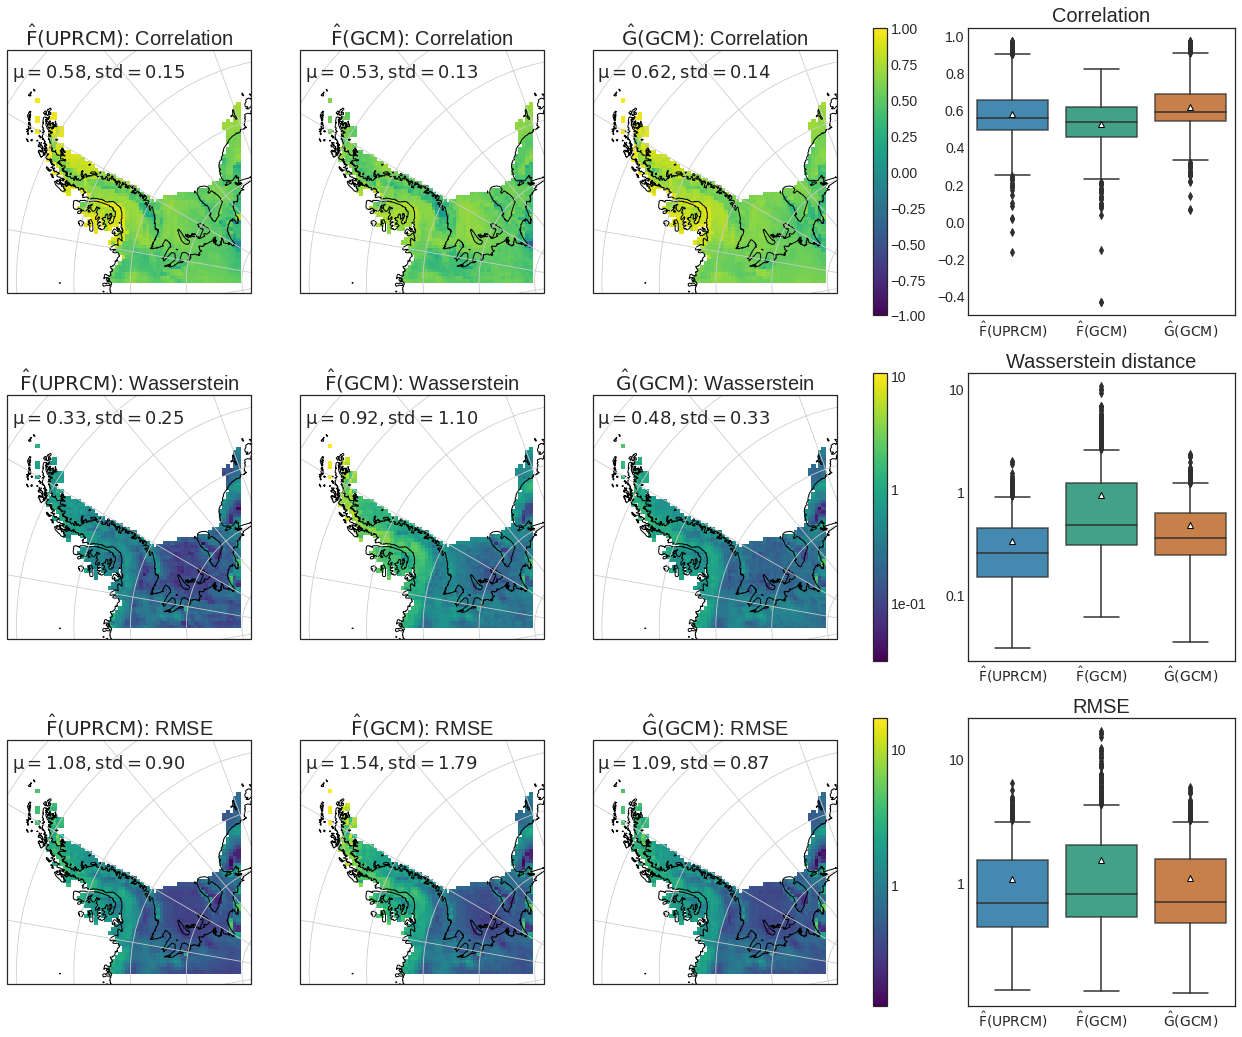
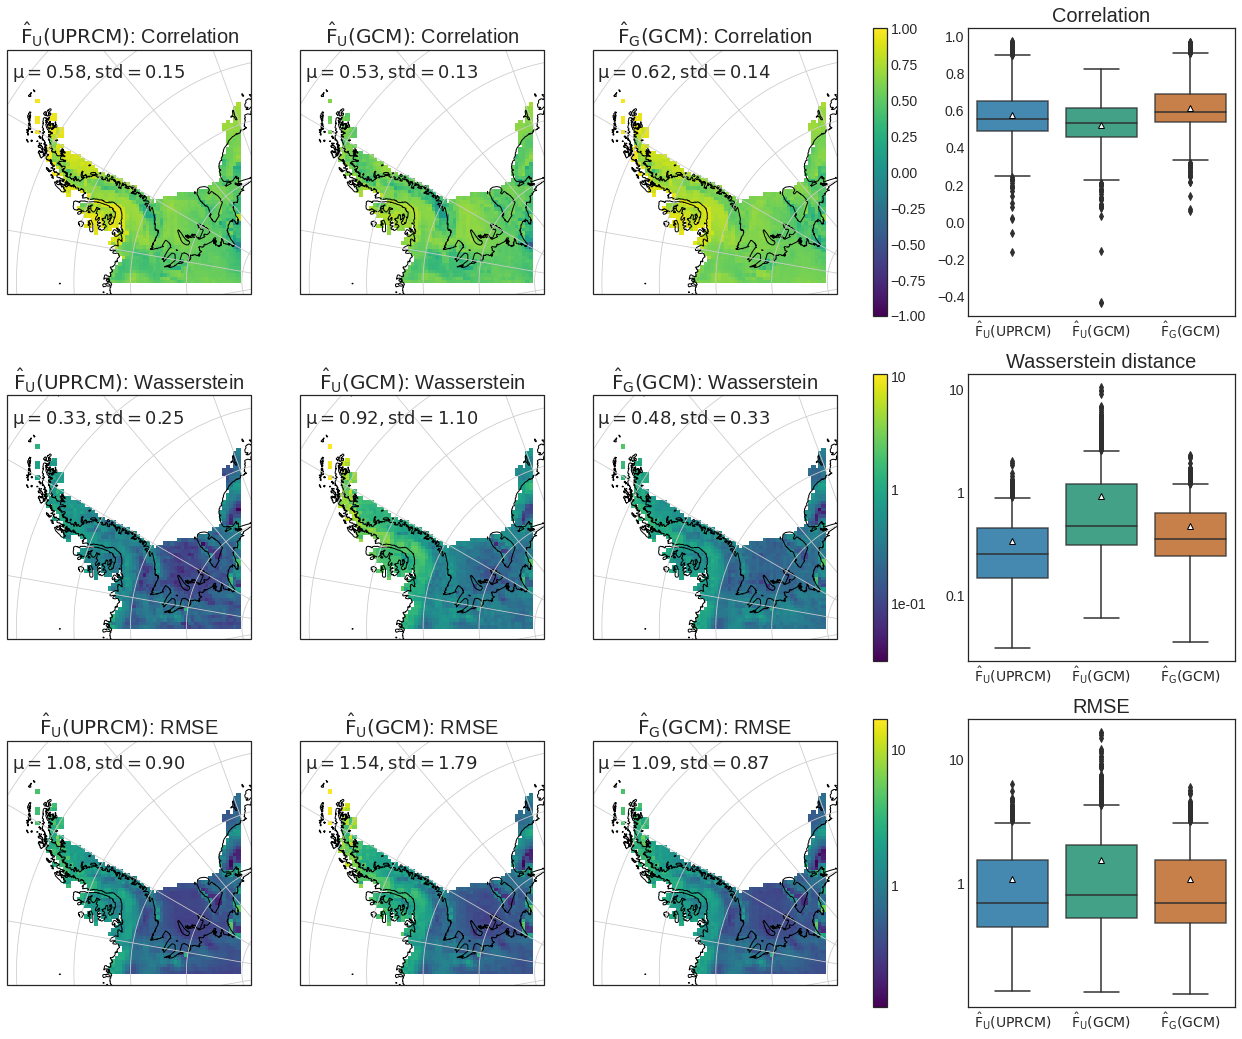
Updates from Overleaf

diff --git a/doc/Thesis-latex/thesis.tex b/doc/Thesis-latex/thesis.tex
@@ -336,15 +336,16 @@ where $\bar{Z}_{\mathrm{ref},z}$ and $\sigma(Z_{\mathrm{ref},z})$ are respective
 \end{figure}
 
 \begin{itemize}
-    \item Train and test set: we separate the time-frame $T$ into an approximate 90\%-10\% split with a train and test period of $T_{train} = 1980-2090$ and $T_{test} = 2090-2100$. We arbitrarily chose to put the test period at the end of the climate model's time-frame out of simplicity, but we could also have taken the test samples elsewhere as long as they are consecutive.    
-    \item Evaluation of $\hat{F}_U$: Emulator $\hat{F}_U$ is first evaluated in the perfect model with UPRCM features and in a second step, on GCM inputs. 
-    \item Evaluation of $\hat{F}_G$: Because we trained this Emulator on the GCM, we evaluated $\hat{F}_G$ directly on test features from the GCM. 
-    \item We illustrate the two evaluation frameworks in Fig.~\ref{fig:evaluation-framework}.
-    
+    \item Train and test set: we separated the time-frame $T$ into an approximate 90\%-10\% split with a train and test period of $T_{train} = 1980-2090$ and $T_{test} = 2090-2100$. We arbitrarily chose to put the test period at the end of the climate model's time-frame out of simplicity, but we could also have taken the test samples elsewhere as long as they are consecutive. 
+    \item Evaluation of $\hat{F}_U$: Emulator $\hat{F}_U$ was first evaluated in the perfect model with UPRCM features $\hat{F}_U(\operatorname{UPRCM})$ and in a second step, on GCM inputs $\hat{F}_U(\operatorname{GCM})$. This is to assess how the Emulator trained on UPRCM can apply what it learned to GCM features. Furthermore, the performance of $\hat{F}_U(\operatorname{GCM})$ is also a good indicator of the presence of inconsistencies between UPRCM and GCM features. 
+    \item Evaluation of $\hat{F}_G$: Because we trained this Emulator on the GCM, we evaluated $\hat{F}_G$ directly on test features from the GCM $\hat{F}_G(\operatorname{GCM})$. 
+    \item The two evaluation frameworks are illustrated in Fig.~\ref{fig:evaluation-framework}.
+    \item For each Emulator $\hat{F}_{(\cdot)}$, we assessed single month and average predictions made over the target domain. This way, we could examine which regions of the Peninsula were best reconstructed in their SMB patterns in terms of details, precision and intensity. \item Furthermore, we looked at individual time-series of predicted SMB values for single points in the target region. These points were specifically chosen to evaluate how the models handled different patterns and intensities of SMB.   
 \end{itemize}
 
-\subsection{Evaluation metrics}\label{subsec:evaluation-metrics}
-For each Emulator $\hat{F}_{(\cdot)}$ and point $p \in \mathcal{E}$, we compared the target SMB time series $Y_{p}$ to the predicted values $\widehat{Y_{p}}$ over the time period $T_{test}$. For this, we used different statistics:
+\subsection{Evaluation metrics}\label{subsec:evaluation-metrics} 
+
+To evaluate the global performance of our Machine Learning model, we used different traditional statistics. For each Emulator $\hat{F}_{(\cdot)}$and point $p \in \mathcal{E}$, we compared the target SMB time series $Y_{p}$ to the predicted values $\widehat{Y_{p}}$ over the time period $T_{test}$. For this, we used the Pearson correlation, RMSE and the Wasserstein distance. Correlation allows to whether a temporal pattern such as seasonality for example is well reconstructed, while RMSE and the Wasserstein distance evaluate the fitting of extreme values, as a good representation of the monthly variability and temporal correlation includes a good representation of the extreme values. 
 
 \subsubsection{RMSE}\label{subsubsec:rmse}
 Root Mean Squared Error (RMSE) measures the square root of the average squared differences between predicted and target observations. It is also defined as the square of the mean squared error (MSE):
@@ -368,8 +369,26 @@ measure to match that in the target~\cite{wasserstein1}.
 \end{equation}
 where $\hat{y}_{p}^{t}$ is the predicted SMB value and $y^{t}_{p}$ the true SMB value at location $p\in \mathcal{E} $ and time step $t\in T$. 
 
-\subsection{Feature importance}
-
+ \subsection{Feature importance}
+\begin{itemize}
+    \item For each Emulator $\hat{F}_{(\cdot)}$, we were interested in exploring which atmospheric variables had the biggest impact on the performance of the models.
+    \item Neural Networks have a reputation of being a black box algorithm with a decision process that is hard to understand. Nevertheless, there are ways to evaluate the importance of features, such as permutation importance. 
+    \item Permutation importance is calculated after a model has been fitted. For each single variable in the data, its content are shuffled i.e, rendering the images unreadable and then the model's performance is evaluated with that corrupted variable.
+    \item For every variable $x\in C_1$ in the test dataset $X[1:T_{test}, 1:I,1:J,1:C_1]$, we computed the difference between the prediction score on the original data and that of corrupted features. This procedure was repeated $K$ times and the importance was calculated as the mean percentage of difference in scores. 
+    \begin{equation}
+        \operatorname{I_x} =\frac{1}{K}\sum_{k\in K} \frac{100*(\operatorname{s}_{x}^k - \operatorname{s})}{\operatorname{s}} \;\;\; \forall x\in C_1    \end{equation}
+    where $s$ is the NRMSE loss on the original prediction of $\hat{F}_{(\cdot)}$ and $s_x^k$ is the loss for repetition $k\in K$ and corrupted feature $x\in C_1$. 
+    \item What is expected: 
+    \begin{itemize}
+    \item With this technique, we expected to obtain less precise predictions for corrupted features because the resulting data no longer conforms to anything observed by the Emulators~\cite{FeatureImportance2}.
+    \item Why? This method breaks the relationship between the features and the target. Because we corrupted the natural structure of the data with our scrambling, we compromised what our model learned during training, resulting in higher errors. Hence the drop in the model score is an indication of how much the model depends on the feature.~\cite{FeatureImportance}
+    \end{itemize}
+    \item Note that: 
+    \begin{itemize}
+        \item Permutation importance is not a reflection of the actual predictive value of a feature per se but rather the significance of that feature to a specific model.~\cite{FeatureImportance2}
+        \item If two features are correlated and one of them is permuted, the model still has access to this feature via the correlated one. This leads to lower importance for both features, although they might actually be important.~\cite{FeatureImportance2}. 
+    \end{itemize}
+\end{itemize}
 
 \chapter{Results}
 %%%%%%%%%%%%%%%%%%%%
@@ -381,18 +400,31 @@ where $\hat{y}_{p}^{t}$ is the predicted SMB value and $y^{t}_{p}$ the true SMB 
         \item Global ML metrics: move on to evaluate models with metrics over whole target domain. Why? Start global and use typical ML metrics to evaluate performance of models.  
         \item Geoplots: Look at actual prediction images made by Emulators. Why? Good visual aid to assess which regions are best emulated. Can look at details and precision of reconstruction.   
         \item Zoom in on specific points with their time-series and annual SMB values. Why? Look at how the models adapt to different patterns and intensities of SMB. 
-        \item Feature importance for both Emulators. Why? From a physical point of view, interesting to see which atmospheric variables play the biggest role in predicting SMB. 
+        \item Feature importance for both Emulators. Why? From a physical point of view, interesting to see which atmospheric variables play the biggest impact on SMB when its content are scrambled. 
         
     \end{itemize} 
 \end{itemize}
 
 
 \section{Bias between RCM and GCM variables}
-To assess the bias and inconsistencies between the large-scale and fine-scale atmospheric variables, we calculated the temporal and spatial correlation between UPRCM and GCM variables (Eq.~\ref{eq:spatial-corr} and Eq.\ref{eq:temporal-corr}). 
+To assess the bias and inconsistencies between the large-scale and fine-scale atmospheric variables, we calculated the temporal and spatial correlation between UPRCM and GCM features (Eq.~\ref{eq:spatial-corr} and Eq.\ref{eq:temporal-corr}). Results can be seen in Fig.~\ref{fig:corr-GCM-RCM}. 
 \begin{itemize}
-    \item Fig.~\ref{fig:temp-corr-GCM-UPRCM}: except for the two wind variables (NW, EW), the temporal correlation between URPCM and GCM features is high. Suggests that, except for winds, there is little inconsistencies in the seasonal patterns between regional and global variables.For the two winds, temporal patterns show inconsistencies over the mainland and Peninsula. We suspect that, due to difference in high and low pressure systems, the regional and global scale wind variables show different temporal patterns. 
-    \item Fig.~\ref{fig:spatial-corr-GCM-UPRCM} and Fig.~\ref{fig:spatial-corr-GCM-RCM-ex}: variables like radiation, humidity, temperature and precipitation show significant changes in spatial correlation between UPRCM and GCM. Most flagrant variable is SWD with a highly oscillating annual pattern. Looking at individual months in Fig.~\ref{fig:spatial-corr-GCM-RCM-ex}, we see that sc is low for SWD because GCM predicts higher values of radiation inland than RCM. For precipitation, see that in the worst case, patterns in UPRCM and GCM are completely different (left). While in best case, RCM is a lot more precise in predicting precipitation patterns and overall correlation very low for this variable. Notice also boundaries of RCM model show strange streaks in patterns, but know problem for climate models.  
-    \item Overall, see that problems in consistency between large scale and local scale variables. Might confuse models and might justify the use of perfect model framework to train. 
+    \item Fig.~\ref{fig:temp-corr-GCM-UPRCM}: 
+    \begin{itemize}
+        \item For most of the atmospheric variables, the time-series of URPCM and GCM features are highly positively correlated, with values very close to $1$. 
+        \item However, the two wind variables (EW, NW) show inconsistencies between large and local scale time-series over the mainland and Peninsula with minimal correlation values reaching $0.2$.
+        \item This suggests that, except for winds, there is almost no inconsistency in the seasonal patterns between regional and global variables. 
+        \item Regarding the wind variables, we suspect that due to differences in high and low-pressure systems, the wind variables show different temporal patterns.
+    \end{itemize}
+    \item Fig.~\ref{fig:spatial-corr-GCM-UPRCM} and Fig.~\ref{fig:spatial-corr-GCM-RCM-ex}: 
+    \begin{itemize}
+        \item As seen in Fig.~\ref{fig:spatial-corr-GCM-UPRCM}, variables like temperature, specific humidity, radiation, and precipitation show significant changes in spatial correlation between UPRCM and GCM features.
+        \item The most flagrant variables are SWD, with an annual pattern strongly oscillating between approximate spatial correlation values of $0.2$ and $0.8$, and precipitation with a very poor correlation.
+        \item Looking at some individual examples in in Fig.~\ref{fig:spatial-corr-GCM-RCM-ex}, we see that the spatial correlation is low for SWD radiation during winter because the GCM predicts higher radiation values in the mainland than RCM. In summer, because there is very little radiation, spatial correlation is high. 
+        \item For precipitation, the patterns in the UPRCM and GCM are very different, with the RCM being much more precise in its predictions. For example, for November, the UPRCM shows a local high-intensity precipitation region on the tip of the Peninsula, while the GCM predicts a more imprecise pattern of lower intensity. 
+        \item We also notice a streak pattern on the left boundary of the RCM, but this is a known problem as the boundaries of climate models are usually imprecise. 
+    \end{itemize}
+    \item Overall, we found problems in consistency between large and local-scale variables. As mentioned in~\ref{subsec:perfect-model}, these biases might confuse an Emulator, and this might justify the usage of the perfect model framework for training a model. 
 \end{itemize}
 
 
@@ -428,6 +460,27 @@ To assess the bias and inconsistencies between the large-scale and fine-scale at
 %%%%%%%%%%%%%%%%%%%%
 
 
+\section{Evaluation metrics}
+To evaluate the overall performance of both Emulators, we used three traditional machine learning metrics as described in~\ref{subsec:evaluation-metrics}. Results can be seen in Fig.~\ref{fig:evaluation-GCM-RCM}.
+\begin{itemize}
+    \item Correlation: In average, all models come close in their correlation as can be seen in the boxplot. We can see that for $\hat{F}_{U}(UPRCM)$ and $\hat{F}_{G}(GCM)$, the tip of the Peninsula and west-coast show the highest correlation to the truth, with values close to 1. The east coast of the peninsula has the lowest correlations, especially for $\hat{F}_{G}(GCM)$. We suspect this is because the model struggles to emulate SMB patterns of dry regions such as the inland and east peninsula. 
+    \item Wasserstein distance: The wasserstein distance on $\hat{F}_{U}(GCM)$ indicates that the density probability functions of the emulated SMB series are farther from the RCM truth when given GCM inputs than UPRCM. In that setting, the Peninsula especially shows high differences in distributions with outliers with large scores up to $10$.  
+    \item RMSE: weaker RMSE for $\hat{F}_{U}(GCM)$ with strong outliers on the tip of the peninsula, hinting that Emulator struggles to reach high intensities of SMB when given GCM inputs while trained on UPRCM. 
+\end{itemize}
+
+
+
+% evaluation metrics
+\begin{figure}[!ht]
+  \centering
+  \includegraphics[width=\columnwidth]{doc/Thesis-latex/images/results/metrics_RCM_GCM.png}
+  \caption []{\small Evaluation of Emulator trained on UPRCM ($\hat{F}$) or on GCM ($\hat{G}$) and using respectively UPRCM ($\operatorname{\hat{F}(UPRCM)}$) and GCM as low-resolution input ($\operatorname{\hat{F}(GCM)}$, $\operatorname{\hat{G}(GCM)}$). Test period (2090-2100). At each position $p$ in target domain $\mathcal{E}$, the truth series over the test period are compared to predicted SMB values $\operatorname{\hat{F}(\cdot)}$ and $\operatorname{\hat{G}(\cdot)}$. Right: box plot of evaluation metric values, extending from lower to upper quartile, with a line at the median and triangle at the mean. From top to bottom: Pearson correlation, Wasserstein distance and RMSE (\ref{subsubsec:rmse}). Legend: spatial mean ($\operatorname{\mu}$) and standard deviation ($\operatorname{std}$) of metric over $\mathcal{E}$. }
+  \vspace{-3mm}
+  \label{fig:evaluation-GCM-RCM}
+\end{figure}
+
+
+
 
 \section{Comparison between $\hat{F}$ on UPRCM and GCM}
 
@@ -437,15 +490,6 @@ To assess the bias and inconsistencies between the large-scale and fine-scale at
     \item Close in Pearson correlation but higher difference in Wasserstein and RMSE where F(UPRCM) is closer to truth. Indicates Emulator on GCM gets idea of time series but misses amplitude.
     \item Ref Fig.~\ref{fig:evaluation-GCM-RCM}
 \end{itemize}
-
-% evaluation metrics
-\begin{figure}[thb]
-  \centering
-  \includegraphics[width=\columnwidth]{doc/Thesis-latex/images/results/metrics_RCM_GCM.png}
-  \caption []{\small Evaluation of Emulator trained on UPRCM ($\hat{F}$) or on GCM ($\hat{G}$) and using respectively UPRCM ($\operatorname{\hat{F}(UPRCM)}$) and GCM as low-resolution input ($\operatorname{\hat{F}(GCM)}$, $\operatorname{\hat{G}(GCM)}$). Test period (2090-2100). At each position $p$ in target domain $\mathcal{E}$, the truth series over the test period are compared to predicted SMB values $\operatorname{\hat{F}(\cdot)}$ and $\operatorname{\hat{G}(\cdot)}$. Right: box plot of evaluation metric values, extending from lower to upper quartile, with a line at the median and triangle at the mean. From top to bottom: Pearson correlation, Wasserstein distance and RMSE (\ref{subsubsec:rmse}). Legend: spatial mean ($\operatorname{\mu}$) and standard deviation ($\operatorname{std}$) of metric over $\mathcal{E}$. }
-  \vspace{-3mm}
-  \label{fig:evaluation-GCM-RCM}
-\end{figure}
 
 
 \subsection{Geoplots}
